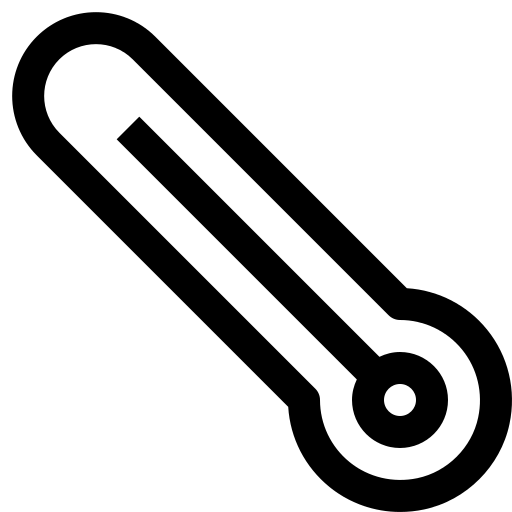
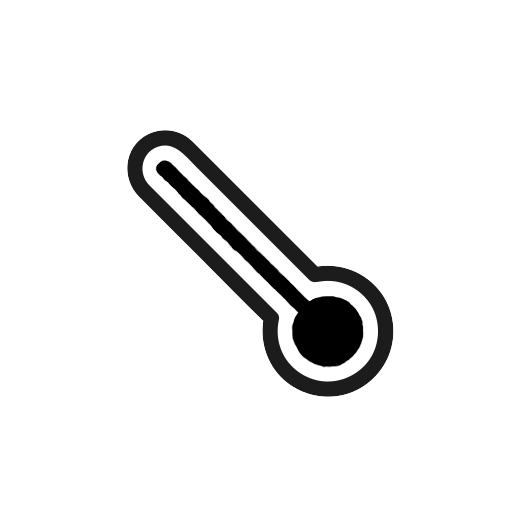
improved UI design - changed temp picture to match minTemp and maxTemp - changed css of weather - removed N/A if weather is not shown - removed humidity

Changed region(s): [[0.0, 0.0, 1.0, 1.0]]

diff --git a/src/main/resources/templates/fragmentExample/fragments/weatherBox.html b/src/main/resources/templates/fragmentExample/fragments/weatherBox.html
@@ -3,36 +3,31 @@
         <div class="weather-icon-container">
             <img id="weatherIcon" th:src="${weatherIcon == null ? '/images/not_found.png' : '/images/' + weatherIcon}" alt="Weather" class="weather-icon">
         </div>
+        <br>
         <div class="weather-date">
-            <span th:text="${date}">N/A</span>
-            <span th:text="${day}">N/A</span>
+            <span th:if="${date != null}" th:text="${date}"></span>
+            <span th:if="${day != null}" th:text="${day}"></span>
             <span th:if="${weatherDescription == null}" class="error-message" th:text="${weatherError}"></span>
             <br>
         </div>
-        <span th:text="${weatherDescription}" class="weather-text">N/A</span>
+        <h3 th:text="${weatherDescription}" class="weather-text"></h3>
         <div class="weather-details">
-            <div>
+            <div class="weather-detail-pair">
                 <img id="tempIcon" th:if="${temp != null}" th:src="${'/images/temp.png'}" alt="Temperature" class="weather-detail-icon">
-                <span th:if="${temp != null}" th:text="${temp}+'°C'" class="weather-text">N/A</span>
+                <span th:if="${temp != null}" th:text="${temp}+'°C'" class="weather-text"></span>
             </div>
-            <div>
+            <div class="weather-detail-pair">
                 <img id="maxTempIcon" th:if="${maxTemp != null}" th:src="${'/images/max_temp.png'}" alt="Max Temperature" class="weather-detail-icon">
-                <span th:if="${maxTemp != null}" th:text="${maxTemp}+'°C'" class="weather-text">N/A</span>
+                <span th:if="${maxTemp != null}" th:text="${maxTemp}+'°C'" class="weather-text"></span>
             </div>
-            <div>
+            <div class="weather-detail-pair">
                 <img id="minTempIcon" th:if="${minTemp != null}" th:src="${'/images/min_temp.png'}" alt="Min Temperature" class="weather-detail-icon">
-                <span th:if="${minTemp != null}" th:text="${minTemp}+'°C'" class="weather-text">N/A</span>
+                <span th:if="${minTemp != null}" th:text="${minTemp}+'°C'" class="weather-text"></span>
             </div>
-            <div>
+            <div class="weather-detail-pair">
                 <img id="precipitationIcon"  th:src="${'/images/precipitation.png'}" alt="Precipitation" class="weather-detail-icon">
-                <span th:if="${precipitation != null}" th:text="${precipitation}+'mm'" class="weather-text">N/A</span>
-            </div>
-            <div>
-                <img id="humidityIcon" th:if="${humidity != null}" th:src="${'/images/precipitation.png'}" alt="Humidity" class="weather-detail-icon">
-                <span th:if="${humidity != null}" th:text="${humidity}+'%'" class="weather-text">N/A</span>
+                <span th:if="${precipitation != null}" th:text="${precipitation}+'mm'" class="weather-text"></span>
             </div>
         </div>
     </div>
-
-
 </div>

diff --git a/src/main/resources/static/css/weather.css b/src/main/resources/static/css/weather.css
@@ -1,45 +1,32 @@
 .weather {
     display: flex;
-    justify-content: space-between;
+    justify-content: space-evenly;
     flex-direction: row;
 }
 .weather-box {
     flex:1;
-    border-bottom-style: solid;
-    border-color: black;
-    border-width: thin;
     display: flex;
     align-items: center;
     flex-direction: column;
 }
 
-.weather-icon-container {
-
-}
-
 .weather-detail-icon {
     position: relative;
     display: block;
-    border-radius: 50%;
     transition: background-color 0.3s;
-    border: 3px solid rgba(0, 0, 0, 0.5);
-    height: 200px;
-    width: 200px;
-
+    height: 30px;
+    width: 30px;
 }
 
 .weather-icon {
     position: relative;
     display: block;
-    border-radius: 50%;
     transition: background-color 0.3s;
-    border: 3px solid rgba(0, 0, 0, 0.5);
-    height: 200px;
-    width: 200px;
+    height: 60px;
+    width: 60px;
 }
 
 .weather-date {
-    display: flex;
     flex-direction: row;
     align-items: center;
     justify-content: space-between;
@@ -50,6 +37,13 @@
 }
 
 .weather-details {
+    display: flex;
+    flex-direction: column;
+    align-items: center;
+    justify-content: space-between;
+}
+
+.weather-detail-pair {
     display: flex;
     flex-direction: row;
     align-items: center;
